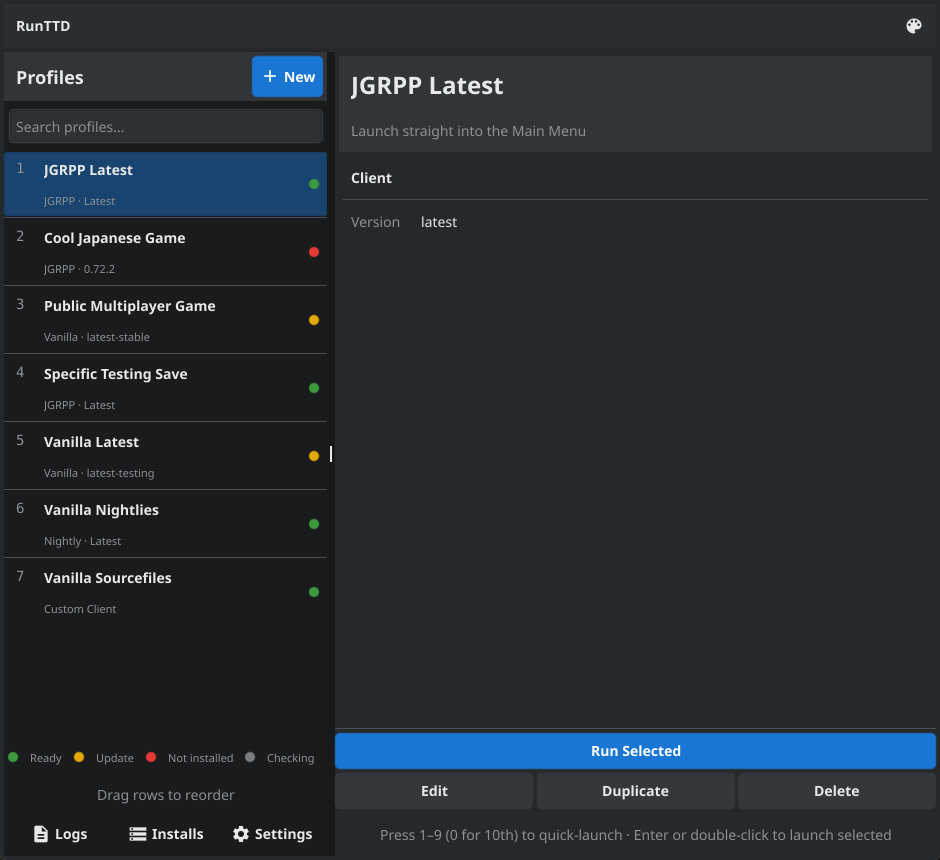
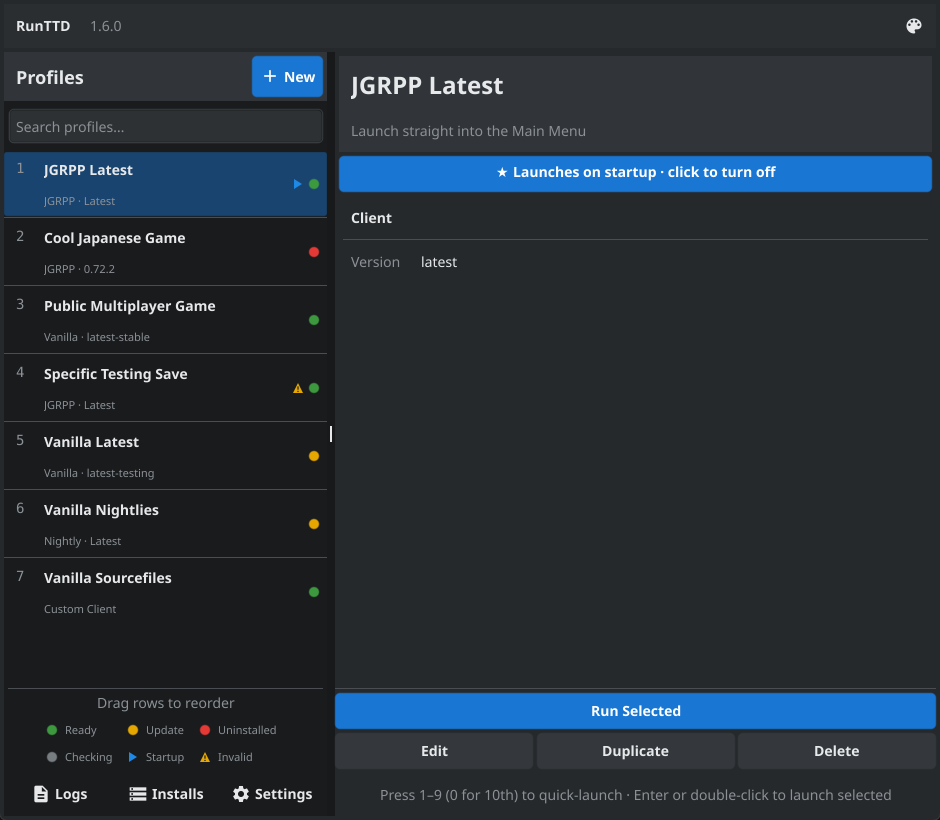
Docs: (README) refresh screenshots for v1.6.0 and add the Settings dialog
Update the main window, profile detail, and Manage Installs screenshots
to match the current UI, and add a new one for the redesigned Settings
dialog's Launching tab.

diff --git a/README.md b/README.md
@@ -86,6 +86,13 @@ The **Manage Installs** screen lists every downloaded version grouped by client,
 
 Click **Settings** at the bottom of the profile list. The options are organized into four tabs (Files & Storage, Launching, Appearance, and Network & System):
 
+<p align="center">
+  <picture>
+    <source media="(prefers-color-scheme: dark)" srcset="docs/screenshots/settings-window-dark.png">
+    <img src="docs/screenshots/settings-window-light.png" alt="The Settings dialog, Launching tab" width="820">
+  </picture>
+</p>
+
 - **Parent Directory.** Where client versions are downloaded and extracted, each in its own versioned folder (e.g. `openttd-15.3-windows-win64`, `openttd-jgrpp-0.72.4-windows-win64`).
 - **Per-client subfolders.** On by default. Installs are nested under `/jgrpp`, `/vanilla`, `/vanilla-nightly`; turn it off to have every client share the parent directory directly.
 - **Docs Base Path.** Your OpenTTD documents folder, where `save/` and `openttd.cfg` live.
